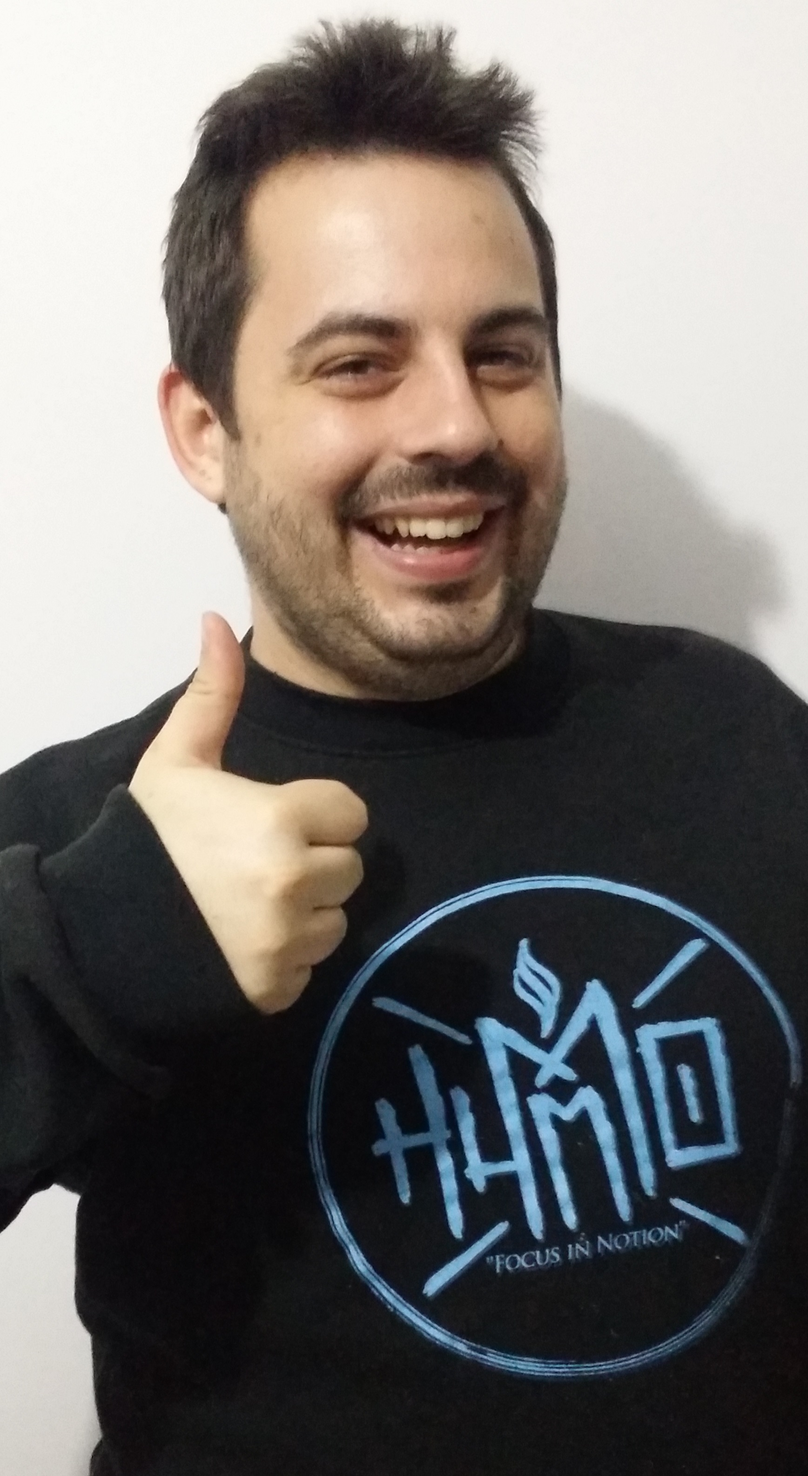
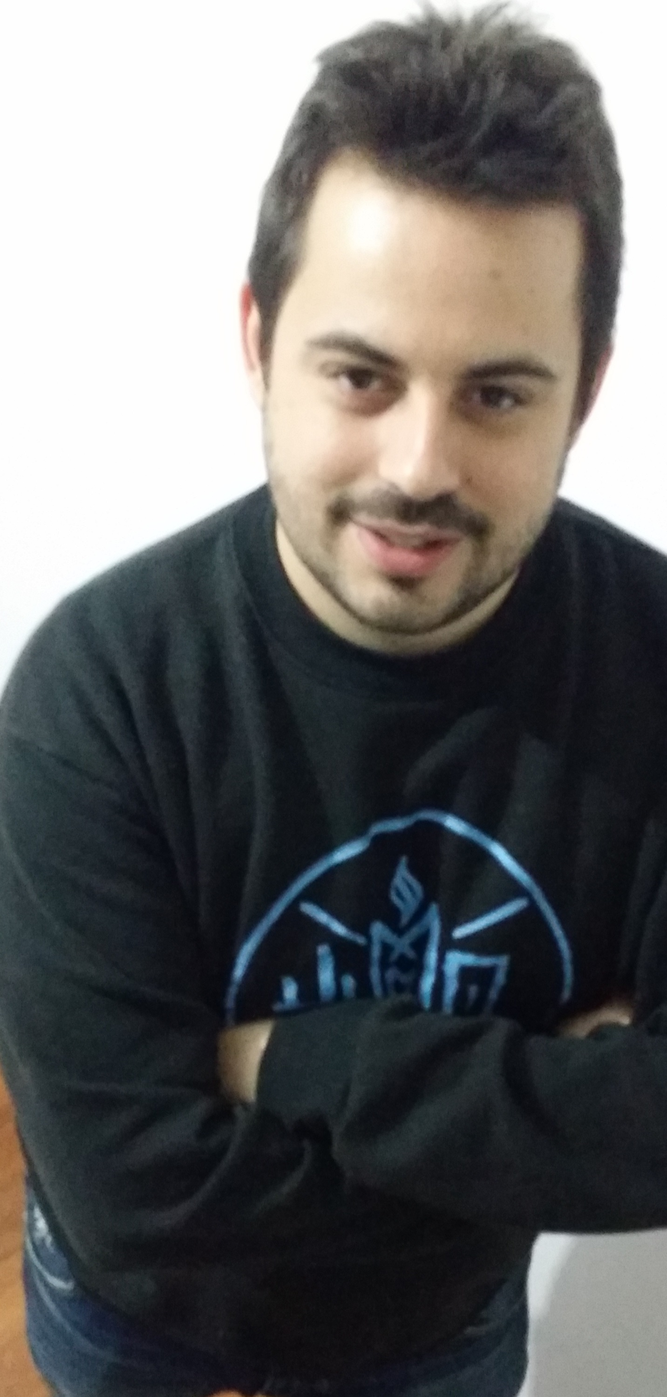
Add content and photo

diff --git a/index.html b/index.html
@@ -16,8 +16,9 @@
 				<div class="panel panel-default">
 					<div class="panel-body">
 						<h1 class="text-info">Daniel Garoz Solis</h1>
-		 				<p>Hola, mi nombre es <span class="glyphicon glyphicon-hand-up"></span>, soy programador desde septiembre de 2014. Es un mundo que me apasiona y dedico mis horas libres a seguir aprendiendo cualquier tecnología que aparece nueva. Pienso que aun soy joven y no quiero encasillarme en una tecnología en concreto, por lo que estoy dispuesto a salir de mi area de confor (java) y conocer nuevas para quedarme con la que mas me guste.<p>
-		 				</p>Los retos me motivan y la comodidad me aburre por lo que siempre voy en busca de nuevos desafios.</p>
+		 				<p>Hola, mi nombre es <span class="glyphicon glyphicon-hand-up"></span>, soy programador desde septiembre de 2014. Es un mundo que me apasiona y dedico mis horas libres a seguir aprendiendo cualquier tecnología que aparece nueva. Pienso que aun soy joven y no quiero encasillarme en una tecnología en concreto, por lo que estoy dispuesto a salir de mi area de confor (java) y conocer nuevas para quedarme con la que mas me guste.</p>
+		 				<p>Los retos me motivan y la comodidad me aburre por lo que siempre voy en busca de nuevos desafios. Me considero una persona muy proactiva, automotivadora, alegre y me encanta trabajar en equipo y aprovechalo para aprender y compartir conocimientos. Por el contrario no me gusta trabajar solo ni estar mucho tiempo en el mismo proyecto.</p>
+		 				<p></p>
 					</div>
 				</div>
 			</div>
